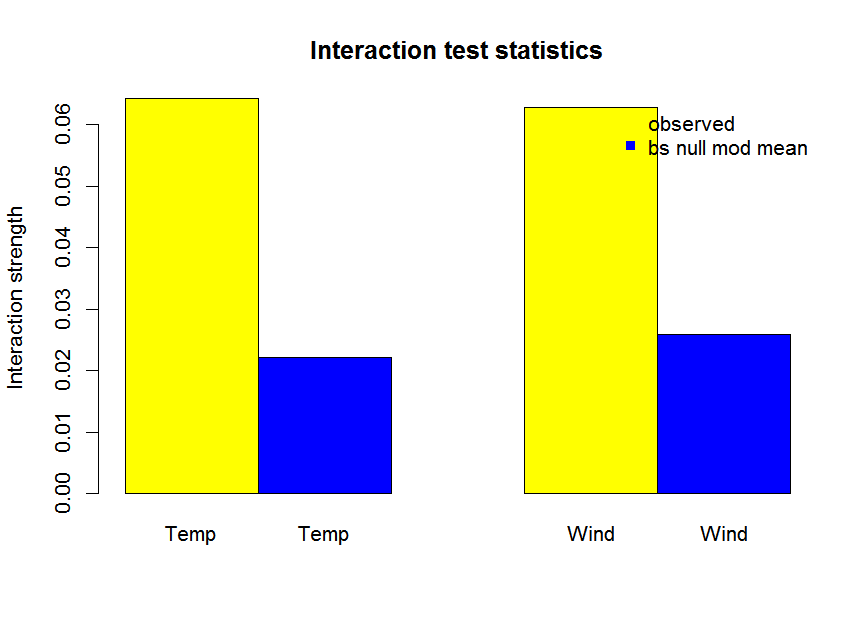
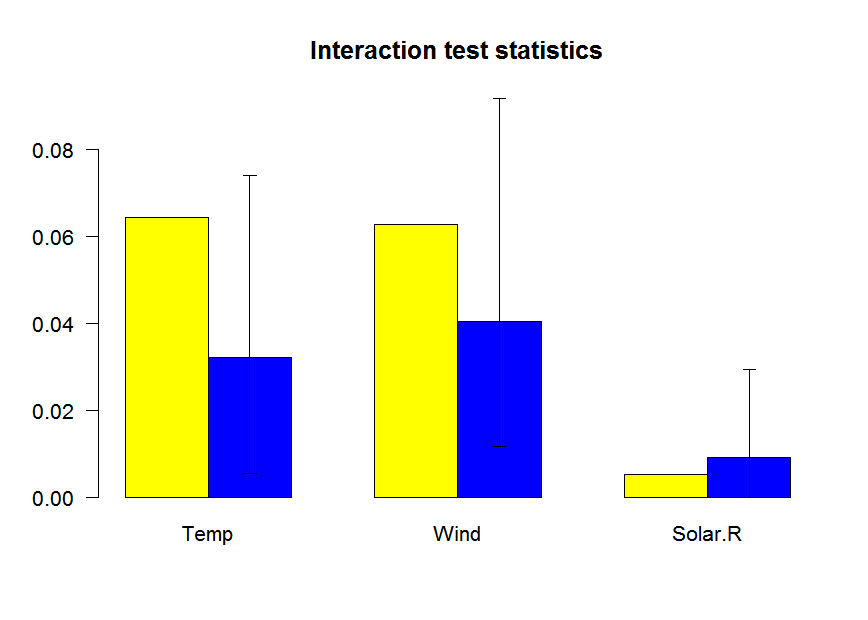
Updated README

diff --git a/README.md b/README.md
@@ -11,8 +11,8 @@ pre is an R package for deriving prediction rule ensembles for binary and contin
 
 Note that pre is under development, and much work still needs to be done.
 
-Examples
-========
+Example using airquality data
+-----------------------------
 
 To get a first impression of how pre works, we will fit a prediction rule ensemble to predict Ozone levels using the airquality dataset. We can fit a prediction rule ensemble using the pre() function:
 
@@ -150,9 +150,20 @@ airq.cv$accuracy
 #> 13.775890  1.265625
 ```
 
-More complex prediction ensembles can be obtained using the gpe() function. The abbreviation gpe stands for generalized prediction ensembles, which may include hinge functions of the predictor variables as described in Friedman (1991), in addition to rules and/or linear terms. Addition of such hinge functions may improve predictive accuracy (but may also reduce interpretability).
+We can assess the presence of input variable interactions using the interact() and bsnullinteract() funtions:
+
+``` r
+set.seed(44)
+nullmods <- bsnullinteract(airq.ens)
+int <- interact(airq.ens, nullmods = nullmods, c("Temp", "Wind", "Solar.R"))
+```
 
 ![](inst/README-figures/README-unnamed-chunk-11-1.png)
+
+Generalized prediction ensembles
+--------------------------------
+
+More complex prediction ensembles can be obtained using the gpe() function. The abbreviation gpe stands for generalized prediction ensembles, which may include hinge functions of the predictor variables as described in Friedman (1991), in addition to rules and/or linear terms. Addition of such hinge functions may improve predictive accuracy (but may also reduce interpretability).
 
 References
 ==========
